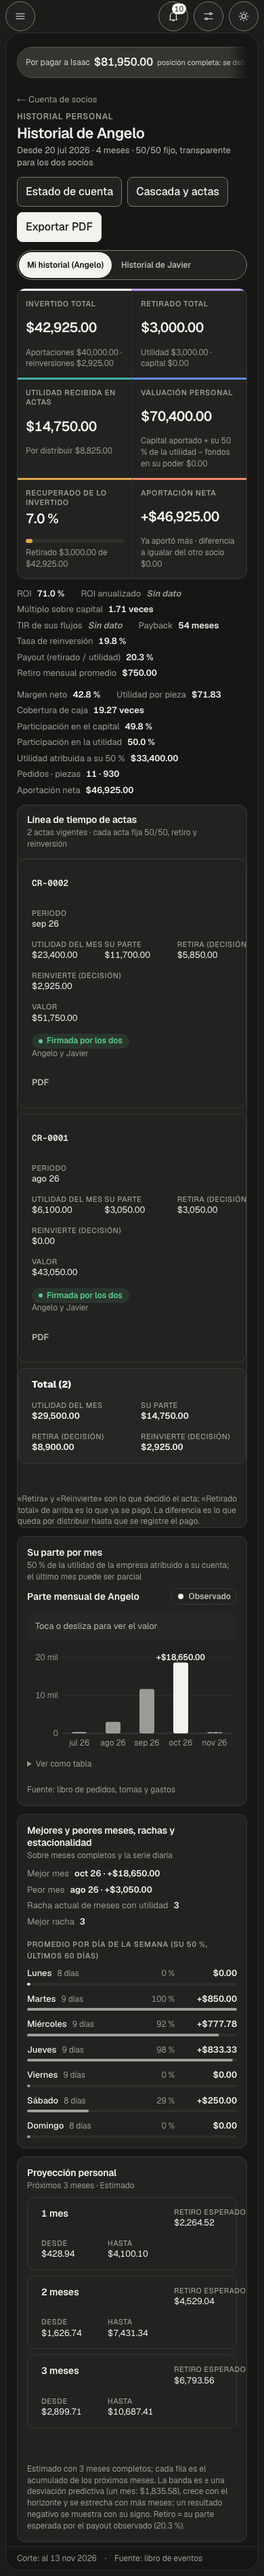
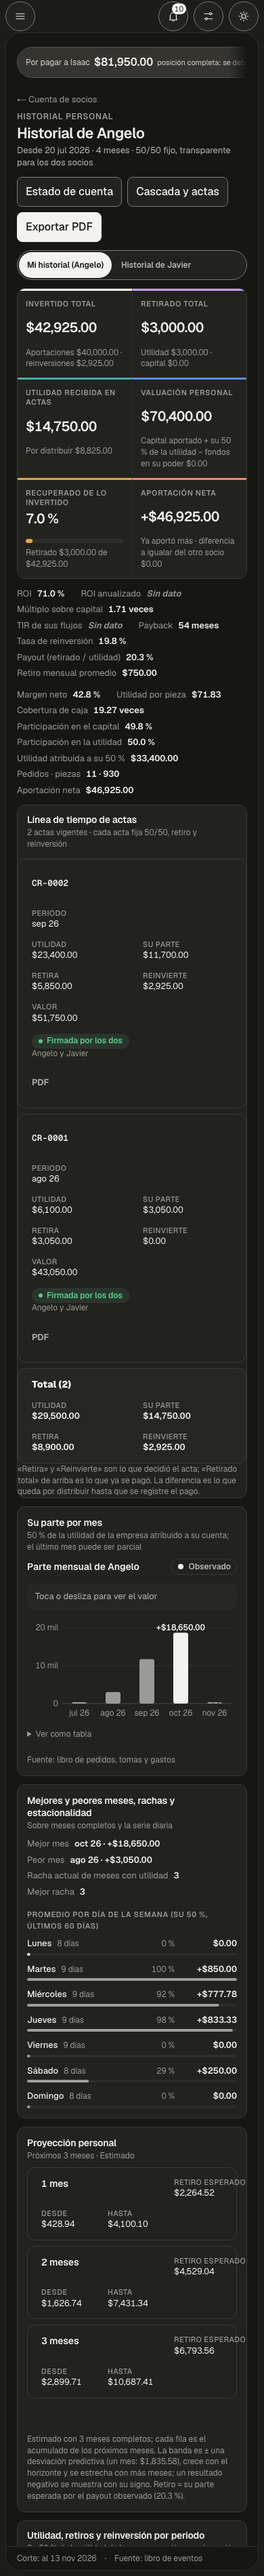
fix(acta): la tabla por socio y las firmas del acta a 390 usan la misma rejilla sin etiquetas recortadas; capturas regeneradas

diff --git a/src/app/(socio)/socios/actas/[id]/page.tsx b/src/app/(socio)/socios/actas/[id]/page.tsx
@@ -75,6 +75,7 @@ export default async function PaginaActa({ params }: { params: Promise<{ id: str
             ]}
           />
           <Tarjeta plana titulo="Por socio" descripcion="Su parte 50/50, lo que retira y lo que reinvierte; la reinversión queda como inversión suya">
+            <div className="rtm-actas-tabla">
             <DataTable
               etiqueta="Acta por socio" densidad="densa" plana primeraFija clave={(f) => f.nombre} filas={filas}
               totales={{ etiqueta: 'Suma', celdas: { p: m(filas.reduce((a, f) => a + (f.x?.utilidad_cent ?? 0n), 0n)), r: m(filas.reduce((a, f) => a + f.dec.retira, 0n)), i: m(filas.reduce((a, f) => a + f.dec.reinvierte, 0n)), q: m(filas.reduce((a, f) => a + f.resto, 0n)) } }}
@@ -93,12 +94,14 @@ export default async function PaginaActa({ params }: { params: Promise<{ id: str
                 { id: 'v', titulo: 'Valuación personal al corte', etiquetaMovil: 'Valuación', numerica: true, ancho: 'l', prioridadMovil: 'normal' as const, celda: (f) => (f.valor === null ? <span className="rtm-sin-dato">Sin dato</span> : m(f.valor)) },
               ]}
             />
+            </div>
           </Tarjeta>
         </>
       )}
 
       <Rejilla dividir="6-6">
         <Tarjeta titulo="Firmas" descripcion="Las firman los dos socios (web y botón en Telegram); cada firma recalcula con los libros de ese momento">
+          <div className="rtm-actas-tabla">
           <DataTable
             etiqueta="Firmas del acta" densidad="densa" plana clave={(f) => f.nombre} filas={filas}
             columnas={[
@@ -107,6 +110,7 @@ export default async function PaginaActa({ params }: { params: Promise<{ id: str
               { id: 'f', titulo: 'Fecha', ancho: 'l', celda: (f) => (f.firma ? <span className="rtm-nowrap">{etiquetaFechaHora(f.firma.firmado_at)}</span> : <span className="rtm-sin-dato">Sin dato</span>) },
             ]}
           />
+          </div>
           <Pie>Propuesta por {c.propuesto_por ?? 'un socio'} el {etiquetaFechaHora(c.creado_at)}. Un acta firmada por los dos no se edita: se corrige con una contra-acta.</Pie>
         </Tarjeta>
         <Tarjeta titulo="Sello del acta" descripcion="Foto inmutable al cerrarse con las dos firmas">
